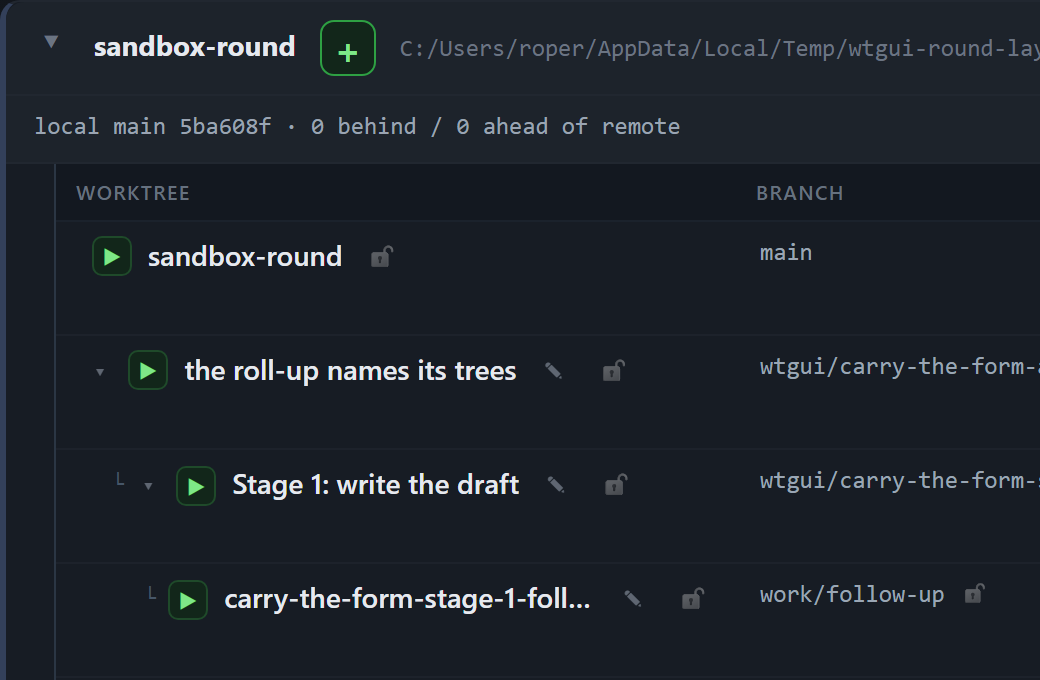
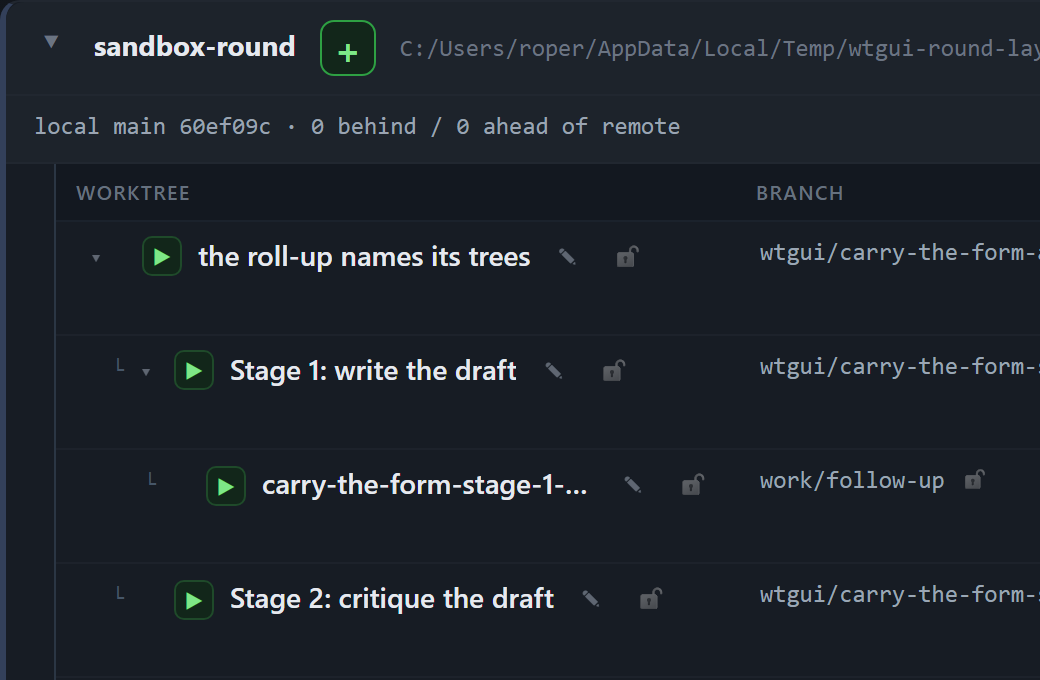
fix: a group's parent row sits in an ungrouped sibling's column, one step per level below it
The chart wrote a row's depth only for a row that HUNG under another, so a group's
parent row carried no depth at all and the indent rule could not reach it: its name
cell then laid its own markers in the flow, and the fold pushed the row's text 18px
right, into its children's column. Measured on a five-tree chart before the change:
the ungrouped row's name at x 105, the group's parent at 123.06, its two stage rows
at 127.06 and 147.13, and the second tier at 143.06 - left of its own parent.

- groupCtxOf: the depth counts the rows that are DRAWN above this one, so a row the
  chart's top-N holds back cannot step its grandchild in twice.
- paintRowGroup: the depth is written onto EVERY row, 0 included, and one rule in
  public/chart.css turns it into the chart's indent: 12px + 16px * depth.
- public/style.css: the markers live in a fixed 25px gutter (tick 7 + gap 2 + fold
  16) that every row reserves, so neither the fold nor the L can move a row's text.
  The fold's behaviour and the L marker are untouched: this is indentation only.
- test/chart-nesting.test.js: the depth the painter writes, row by row, over a group
  parent, its children, the nested group, the grandchild and the ungrouped sibling.
  Red on the base (the parent wrote '' and the held-back tier read 2), green after.
- tools/verify-round-tree-layout.mjs: the parent's depth is 0 rather than absent, and
  four checks now measure the NAME's column on a real chart, not only the cell's
[…]

diff --git a/test/chart-nesting.test.js b/test/chart-nesting.test.js
@@ -125,7 +125,7 @@ const page = readFileSync(new URL("../public/render-projects.js", import.meta.ur
 const region = sliceRegion(page, "children under their parent");
 const keyOf = (project, p) => `${project}::${p}`;
 const state = { rows: new Map(), foldedParents: new Set() };
-const { childTreeOf, groupCtxOf, nestRowKeys } = new Function("state", "keyOf", "esc", "normPath", `${region}; return { childTreeOf, groupCtxOf, nestRowKeys };`)(
+const { childTreeOf, groupCtxOf, nestRowKeys, paintRowGroup } = new Function("state", "keyOf", "esc", "normPath", `${region}; return { childTreeOf, groupCtxOf, nestRowKeys, paintRowGroup };`)(
   state,
   keyOf,
   (s) => String(s ?? ""),
@@ -286,6 +286,171 @@ test("a board that has just booted groups a round from its own record, with no s
   assert.equal(childTreeOf("demo").parentOf.get(keyOf("demo", probe)), undefined, "no parent row, no edge");
 });
 
+
+// ---- what a row WRITES as its indent -------------------------------------------------------------------------------
+//
+// `groupCtxOf` says how deep a row is; `paintRowGroup` is where that number becomes the row's `--child-depth`, and one
+// rule in public/chart.css turns the variable into the indent for EVERY row. That seam is what this half pins, because
+// the two ways it can be wrong are both invisible to a depth-only test:
+//
+//   • a row that writes NOTHING (the group parent, before this landed) falls back to the browser's 0 by luck, and a
+//     later rule keyed on the variable cannot reach it at all;
+//   • a row whose markers size themselves shifts its own text, which is the defect the chart actually showed: the fold
+//     pushed the parent 18px into the children's column, and a nested parent's fold put its name further in than the
+//     child's beneath it.
+//
+// The painter is run against a bare stub of a table row (no browser, no page), so the assertion is about the numbers
+// and the markers the painter writes, not about a rendered column.
+function fakeRow() {
+  const vars = new Map();
+  const attrs = new Map();
+  const classes = new Set();
+  const lead = {
+    nodes: [],
+    insertAdjacentHTML(where, html) {
+      const kind = html.includes("child-tick") ? "tick" : html.includes("btn-row-fold") ? "fold" : "other";
+      const node = {
+        kind,
+        textContent: kind === "tick" ? "\u2514" : "\u25be",
+        title: "",
+        attrs: new Map(),
+        classList: { toggle() {} },
+        getAttribute(name) { return this.attrs.get(name) ?? null; },
+        setAttribute(name, value) { this.attrs.set(name, String(value)); },
+        remove() { lead.nodes = lead.nodes.filter((n) => n !== node); },
+      };
+      if (where === "afterbegin") lead.nodes.unshift(node);
+      else lead.nodes.push(node);
+      return node;
+    },
+    querySelector(sel) {
+      const want = sel === ".child-tick" ? "tick" : "fold";
+      return lead.nodes.find((n) => n.kind === want) || null;
+    },
+    count(kind) { return lead.nodes.filter((n) => n.kind === kind).length; },
+  };
+  return {
+    dataset: {},
+    vars,
+    attrs,
+    classes,
+    lead,
+    classList: { toggle: (name, on) => (on ? classes.add(name) : classes.delete(name)), contains: (name) => classes.has(name) },
+    style: {
+      getPropertyValue: (name) => vars.get(name) ?? "",
+      setProperty: (name, value) => vars.set(name, value),
+      removeProperty: (name) => vars.delete(name),
+    },
+    hasAttribute: (name) => attrs.has(name),
+    removeAttribute: (name) => attrs.delete(name),
+    querySelector: (sel) => (sel === "td.name .row-lead" ? lead : null),
+  };
+}
+
+test("every row writes the depth it draws at: a group parent 0, its children 1, the nested parent 1, the grandchild 2", () => {
+  const root = "/repo/demo";
+  const at = (tail) => `${root}/.worktrees/${tail}`;
+  const rows = [
+    { project: "demo", path: root, branch: "main", parent: null },
+    { project: "demo", path: at("plain-aaaaaa"), branch: "wtgui/plain-aaaaaa", parent: null },
+    { project: "demo", path: at("group-bbbbbb"), branch: "wtgui/group-bbbbbb", parent: null },
+    { project: "demo", path: at("group-stage-1-cccccc"), branch: "wtgui/group-stage-1-cccccc", parent: "wtgui/group-bbbbbb", parentSource: "cut" },
+    { project: "demo", path: at("group-stage-2-eeeeee"), branch: "wtgui/group-stage-2-eeeeee", parent: "wtgui/group-bbbbbb", parentSource: "cut" },
+    { project: "demo", path: at("group-stage-1-sub-dddddd"), branch: "wtgui/group-stage-1-sub-dddddd", parent: "wtgui/group-stage-1-cccccc", parentSource: "cut" },
+  ];
+  state.rows = new Map(rows.map((row) => [keyOf(row.project, row.path), row]));
+  state.foldedParents = new Set();
+  const tree = childTreeOf("demo");
+  const drawn = new Set(rows.map((row) => keyOf(row.project, row.path)));
+  const paint = (path) => {
+    const row = rows.find((r) => r.path === path);
+    const key = keyOf(row.project, row.path);
+    const ctx = groupCtxOf(tree, key, drawn);
+    const tr = fakeRow();
+    paintRowGroup(tr, row, key, ctx);
+    return { ctx, tr };
+  };
+
+  // The group. Its parent row hangs under nothing, so it is depth 0 - the same answer the ungrouped sibling gets, and
+  // the same indent the CSS reads back for both.
+  const parent = paint(at("group-bbbbbb"));
+  assert.equal(parent.ctx.parentKey, null, "the group's parent row hangs under nobody");
+  assert.equal(parent.ctx.depth, 0, "so it is depth 0, not its children's depth");
+  assert.equal(parent.tr.style.getPropertyValue("--child-depth"), "0", "and it WRITES that 0 for the indent rule");
+  assert.equal(parent.tr.dataset.depth, "0", "the data attribute the gates read says the same");
+  assert.equal(parent.tr.classes.has("is-parent"), true, "it is a parent: it carries the fold");
+  assert.equal(parent.tr.classes.has("is-child"), false, "and it is not drawn as a child");
+  assert.equal(parent.tr.lead.count("tick"), 0, "a group's parent row draws NO child tick");
+  assert.equal(parent.tr.lead.count("fold"), 1, "its fold sits in the gutter to its left");
+
+  // The ungrouped sibling. Same depth, same written value: that equality IS the alignment.
+  const plain = paint(at("plain-aaaaaa"));
+  assert.equal(plain.ctx.parentKey, null);
+  assert.equal(plain.ctx.depth, 0);
+  assert.equal(plain.tr.style.getPropertyValue("--child-depth"), parent.tr.style.getPropertyValue("--child-depth"));
+  assert.equal(plain.tr.dataset.depth, "0");
+  assert.equal(plain.tr.classes.size, 0, "an ungrouped row is neither a child nor a parent");
+
+  // The parent's children stay at depth 1 - INCLUDING the one that is itself a group, which takes its parent's
+  // children's depth and nothing more.
+  for (const tail of ["group-stage-1-cccccc", "group-stage-2-eeeeee"]) {
+    const child = paint(at(tail));
+    assert.equal(child.ctx.parentKey, keyOf("demo", at("group-bbbbbb")), `${tail} hangs from the group's parent row`);
+    assert.equal(child.ctx.depth, 1, `${tail} is one indent in`);
+    assert.equal(child.tr.style.getPropertyValue("--child-depth"), "1", `${tail} writes its own depth`);
+    assert.equal(child.tr.lead.count("tick"), 1, `${tail} draws exactly one tick`);
+    assert.equal(child.tr.classes.has("is-child"), true);
+  }
+  const nested = paint(at("group-stage-1-cccccc"));
+  assert.equal(nested.ctx.childCount, 1, "the nested group's own child is drawn");
+  assert.equal(nested.tr.classes.has("is-parent"), true, "so it carries a fold as well");
+  assert.equal(nested.tr.lead.count("fold"), 1);
+  assert.equal(nested.ctx.depth, paint(at("group-stage-2-eeeeee")).ctx.depth, "a nested parent sits in its siblings' column");
+
+  // The second tier: one more indent, never two.
+  const grand = paint(at("group-stage-1-sub-dddddd"));
+  assert.equal(grand.ctx.parentKey, keyOf("demo", at("group-stage-1-cccccc")));
+  assert.equal(grand.ctx.depth, 2, "the grandchild is one step past its own parent");
+  assert.equal(grand.tr.style.getPropertyValue("--child-depth"), "2");
+  assert.equal(grand.tr.lead.count("tick"), 1);
+  assert.equal(grand.tr.lead.count("fold"), 0, "a leaf draws no fold");
+
+  // Nesting is EXACTLY one indent per level: each step is +1 on the row above, and the two top-level shapes agree.
+  const ladder = [parent.ctx.depth, nested.ctx.depth, grand.ctx.depth];
+  assert.deepEqual(ladder, [0, 1, 2]);
+  assert.equal(ladder[0], plain.ctx.depth, "a group parent and an ungrouped sibling draw at the same depth");
+});
+
+test("the indent counts rows that are DRAWN, so a held-back row cannot step its grandchild in twice", () => {
+  const root = "/repo/demo";
+  const at = (tail) => `${root}/.worktrees/${tail}`;
+  const rows = [
+    { project: "demo", path: at("group-bbbbbb"), branch: "wtgui/group-bbbbbb", parent: null },
+    { project: "demo", path: at("group-stage-1-cccccc"), branch: "wtgui/group-stage-1-cccccc", parent: "wtgui/group-bbbbbb", parentSource: "cut" },
+    { project: "demo", path: at("group-stage-1-sub-dddddd"), branch: "wtgui/group-stage-1-sub-dddddd", parent: "wtgui/group-stage-1-cccccc", parentSource: "cut" },
+  ];
+  state.rows = new Map(rows.map((row) => [keyOf(row.project, row.path), row]));
+  state.foldedParents = new Set();
+  const tree = childTreeOf("demo");
+  const all = rows.map((row) => keyOf(row.project, row.path));
+  // The chart's top-N holds the GRANDparent back. Its child is drawn at the top level and its grandchild under that
+  // child - so the grandchild is one indent in, counted from the row it is actually drawn beneath.
+  const drawn = new Set(all.filter((k) => k !== keyOf("demo", at("group-bbbbbb"))));
+  const mid = groupCtxOf(tree, keyOf("demo", at("group-stage-1-cccccc")), drawn);
+  assert.equal(mid.parentKey, null, "its own parent is off the chart");
+  assert.equal(mid.depth, 0, "so it is drawn at the top level");
+  const grand = groupCtxOf(tree, keyOf("demo", at("group-stage-1-sub-dddddd")), drawn);
+  assert.equal(grand.parentKey, keyOf("demo", at("group-stage-1-cccccc")), "it still hangs under its drawn parent");
+  assert.equal(grand.depth, mid.depth + 1, "exactly one step in from it - not two, counting the row that is gone");
+  // With every row on the chart the same tree is still one step per level: 0, 1, 2.
+  const every = new Set(all);
+  assert.deepEqual(
+    [keyOf("demo", at("group-bbbbbb")), keyOf("demo", at("group-stage-1-cccccc")), keyOf("demo", at("group-stage-1-sub-dddddd"))].map(
+      (k) => groupCtxOf(tree, k, every).depth,
+    ),
+    [0, 1, 2],
+  );
+});
 
 // ---- the TITLE each of those rows paints ---------------------------------------------------------------------------
 //

diff --git a/public/render-projects.js b/public/render-projects.js
@@ -474,13 +474,19 @@ function childTreeOf(project) {
 // What one row needs to know about its place: the row it hangs under (only while that row is drawn), how deep it is,
 // how many of its own children are drawn, whether the reader has folded IT, and whether an ancestor is folded — the
 // last one is what makes a rebuild come back folded instead of re-opening a group on the reader.
+//
+// The DEPTH counts the rows that are DRAWN above this one, never the records: the chart's top-N can hold a grandparent
+// back while its child and grandchild are both on the chart, and a depth read off the records would step the grandchild
+// in twice under a parent drawn at 0. A row that hangs under nothing is depth 0, a GROUP PARENT included, which is
+// what puts its name in the same column as an ungrouped sibling's. The painter writes that number onto every row and
+// public/chart.css turns it into the one indent rule the whole chart shares.
 function groupCtxOf(tree, key, drawn = null) {
   const onChart = (k) => !drawn || drawn.has(k);
   const pk = tree.parentOf.get(key) || null;
   const parentKey = pk && onChart(pk) ? pk : null;
   let depth = 0;
   let hidden = false;
-  for (let cur = parentKey; cur; cur = tree.parentOf.get(cur)) {
+  for (let cur = parentKey; cur && onChart(cur); cur = tree.parentOf.get(cur)) {
     depth += 1;
     if (state.foldedParents.has(cur)) hidden = true;
   }
@@ -561,15 +567,16 @@ function paintRowGroup(tr, row, key, ctx) {
   // Hidden because an ANCESTOR is folded. The row itself stays in the document: folding is a class, not a removal,
   // which is what lets an open console, a half-typed reply and a scroll position survive it.
   tr.classList.toggle("is-fold-hidden", ctx.hidden);
+  // The depth is written for EVERY row, a group parent included: 0 is a real answer (it is what keeps the parent in an
+  // ungrouped sibling's column) and one rule in public/chart.css reads it off every row, so the indent can no longer
+  // depend on which markers a row happens to carry.
+  const depth = String(ctx.depth);
+  if (tr.dataset.depth !== depth) tr.dataset.depth = depth;
+  if (tr.style.getPropertyValue("--child-depth") !== depth) tr.style.setProperty("--child-depth", depth);
   if (child) {
     if (tr.dataset.parentKey !== ctx.parentKey) tr.dataset.parentKey = ctx.parentKey;
-    const depth = String(ctx.depth);
-    if (tr.dataset.depth !== depth) tr.dataset.depth = depth;
-    if (tr.style.getPropertyValue("--child-depth") !== depth) tr.style.setProperty("--child-depth", depth);
-  } else {
-    if (tr.hasAttribute("data-parent-key")) tr.removeAttribute("data-parent-key");
-    if (tr.dataset.depth) delete tr.dataset.depth;
-    if (tr.style.getPropertyValue("--child-depth")) tr.style.removeProperty("--child-depth");
+  } else if (tr.hasAttribute("data-parent-key")) {
+    tr.removeAttribute("data-parent-key");
   }
   const lead = tr.querySelector("td.name .row-lead");
   if (!lead) return;

diff --git a/public/style.css b/public/style.css
@@ -2090,8 +2090,9 @@ tr.row:hover .btn-row-rename { opacity: .9; }
   color: var(--dim);
   border-radius: 4px;
   font: 11px/1.4 var(--term);
-  padding: 0 4px;
-  margin-left: 2px;
+  /* A fixed 16px box: the marker gutter (public/style.css `.row-lead`) is the tick's 7px + the 2px gap + this, and a
+     fold that sized itself to its glyph would make one row's name line a pixel wider than the next. */
+  flex: none; width: 16px; padding: 0; margin-left: 0;
   cursor: pointer;
   opacity: .55;
   vertical-align: 1px;
@@ -2099,11 +2100,16 @@ tr.row:hover .btn-row-rename { opacity: .9; }
 .btn-row-fold:hover { background: #232b3a; border-color: var(--line); color: var(--fg); opacity: 1; }
 .btn-row-fold.is-folded { color: var(--fg); opacity: .9; }
 tr.row:hover .btn-row-fold { opacity: .9; }
-/* The lead slot of a row's name line: the fold control, then the tick that says "cut from the row above". Empty on a
-   top-level row with no children, and it takes no room there. */
-td.name > .name-line > .row-lead { display: inline-flex; align-items: center; gap: 2px; flex: none; }
-.row-lead:empty { display: none; }
-.child-tick { color: #465668; font: 11px/1 var(--term); }
+/* The lead slot of a row's name line: the fold control, then the tick that says "cut from the row above". It is a
+   FIXED gutter reserved on every row: 7px for the tick, 2px of gap, 16px for the fold. Because the row's
+   indentation must not depend on which of the two a row carries: while the slot sized itself to its contents, a fold
+   pushed its own row's text 18px right, so a group's parent row sat in its children's column and a nested parent's
+   fold put its name further in than the child's below it. Both markers get a fixed box for the same reason: the
+   gutter's width is the sum, in every font, so one row cannot be a pixel wider than the next. An empty lead keeps
+   its width, which is what makes a group parent match an ungrouped sibling - `:empty { display: none }` was exactly
+   the rule that broke the alignment. */
+td.name > .name-line > .row-lead { display: inline-flex; align-items: center; gap: 2px; flex: none; width: 25px; }
+.child-tick { flex: none; width: 7px; color: #465668; font: 11px/1 var(--term); }
 
 /* The reader's lock, on the row itself: an emoji rather than a glyph, because it has to be legible to a person
    scanning a column and to an agent reading the board's own markup. Quiet while unlocked (a board of rows must not

diff --git a/public/chart.css b/public/chart.css
@@ -177,13 +177,19 @@ tbody td { padding: 7px 10px; border-bottom: 1px solid #1d222b; vertical-align: 
    child steps in again without a second rule), and it keeps every cell it had — its own branch, its own verdict, its
    own actions.
 
+   ONE RULE FOR EVERY ROW, depth 0 included. The grouping writes the depth onto every row (public/render-projects.js
+   `paintRowGroup`), so a row that hangs under nothing (a group's PARENT row, or a tree no round cut) carries 0 and
+   lands in exactly the same column as any other top-level row. The rule used to be scoped to `.is-child`, which left
+   a parent with no indent variable at all and let the markers in its name cell decide where its text started: the
+   fold pushed its own row's text 18px right, into the children's column.
+
    ONE L, NOT A LADDER. A child row used to draw two: the project's rail glyph, moved in to its own depth
    (the rule that follows), and the └ the row leads with (`.child-tick`, public/render-projects.js). Two L's on one
    row read as a depth of two, and at the second tier they read as a rung of a ladder nobody drew. The rail is the
    PROJECT's line and stops being a group marker at the moment a row hangs under another: a child draws no rail glyph
-   at all, and its single marker is the └ it leads with, which steps in with the cell's own padding - one indent per
-   deeper tier, and nothing extra. */
-#projects tbody tr.row.is-child > td.name { padding-left: calc(12px + 16px * var(--child-depth, 1)); }
+   at all, and its single marker is the └ it leads with, in the row's marker gutter (public/style.css), which is a
+   fixed slot so the marker steps in with the cell's padding instead of pushing the text it leads. */
+#projects tbody tr.row > td.name { padding-left: calc(12px + 16px * var(--child-depth, 0)); }
 #projects tbody tr.row.is-child > td:first-child::before { content: none; }
 /* A fold hides a whole group where it stands — the child rows AND the details, questions and offers hanging under
    them. Nothing leaves the document, which is the point: an open console, a half-typed reply and a scroll position
